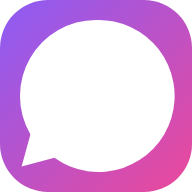
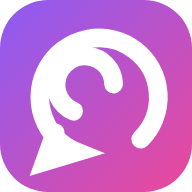
feat(brand): nouvelle marque Chatwrap — bulle en ruban enroulé
Le renommage laissait intact le signal de marque le plus visible : le logo
était littéralement le combiné dans la bulle de WhatsApp. Une fois le nom
neutre, c'était l'exposition la plus directe qui restait.

La nouvelle marque est une bulle de conversation dessinée comme un ruban qui
s'enroule — « chat » + « wrap ». Elle reprend le dégradé violet→rose du
favicon existant, qui lui n'a jamais rien eu de WhatsApp.

- favicon.svg, icons/icon-maskable.svg, et les trois PNG régénérés (192, 512,
  maskable 512).
- Glyphe en-tête : le ruban seul, en dégradé de marque, avec le halo assorti.
  L'icône complète (tuile arrondie) reste réservée au favicon et à la PWA,
  comme c'était déjà le cas.
- Le mot-logo passe du vert au dégradé de marque : le « wrap » vert et le
  symbole violet juraient, et le vert du mot-logo était encore un rappel de
  WhatsApp.

L'accent vert de l'interface (boutons) est laissé tel quel : c'est un choix de
thème global, pas un sujet de marque, et le changer sans demander dépasserait
la question posée.

Claude-Session: https://claude.ai/code/session_01GL6iHmw4kJCqype5e8dEHj

Changed region(s): [[0.0938, 0.0938, 0.9375, 0.9375]]

diff --git a/index.html b/index.html
@@ -34,9 +34,17 @@
         <div class="upload-container">
             <div class="logo-wrapper">
                 <div class="logo-icon" aria-hidden="true">
-                    <svg viewBox="0 0 24 24" fill="currentColor" width="48" height="48">
-                        <path d="M17.472 14.382c-.297-.149-1.758-.867-2.03-.967-.273-.099-.471-.148-.67.15-.197.297-.767.966-.94 1.164-.173.199-.347.223-.644.075-.297-.15-1.255-.463-2.39-1.475-.883-.788-1.48-1.761-1.653-2.059-.173-.297-.018-.458.13-.606.134-.133.298-.347.446-.52.149-.174.198-.298.298-.497.099-.198.05-.371-.025-.52-.075-.149-.669-1.612-.916-2.207-.242-.579-.487-.5-.669-.51-.173-.008-.371-.01-.57-.01-.198 0-.52.074-.792.372-.272.297-1.04 1.016-1.04 2.479 0 1.462 1.065 2.875 1.213 3.074.149.198 2.096 3.2 5.077 4.487.709.306 1.262.489 1.694.625.712.227 1.36.195 1.871.118.571-.085 1.758-.719 2.006-1.413.248-.694.248-1.289.173-1.413-.074-.124-.272-.198-.57-.347z"/>
-                        <path d="M12 0C5.373 0 0 5.373 0 12c0 2.625.846 5.059 2.284 7.034L.789 23.492a.75.75 0 00.917.918l4.462-1.494A11.945 11.945 0 0012 24c6.627 0 12-5.373 12-12S18.627 0 12 0zm0 22c-2.387 0-4.592-.838-6.316-2.234l-.44-.37-3.528 1.18 1.18-3.522-.372-.443A9.957 9.957 0 012 12C2 6.477 6.477 2 12 2s10 4.477 10 10-4.477 10-10 10z"/>
+                    <svg viewBox="0 0 24 24" width="48" height="48" fill="none" stroke-linecap="round">
+                        <defs>
+                            <linearGradient id="mark-gradient" x1="0" y1="0" x2="1" y2="1">
+                                <stop offset="0%" stop-color="#8B5CF6"/>
+                                <stop offset="100%" stop-color="#EC4899"/>
+                            </linearGradient>
+                        </defs>
+                        <g stroke="url(#mark-gradient)" stroke-width="2.1">
+                            <path d="M17.6 17.4A7.4 7.4 0 1 0 9.6 19l-4 1.2 1.3-3.6"/>
+                            <path d="M9.2 13.9a3.6 3.6 0 1 1 5-3.4"/>
+                        </g>
                     </svg>
                 </div>
                 <h1 class="logo-title">Chat<span>wrap</span></h1>

diff --git a/css/style.css b/css/style.css
@@ -114,9 +114,10 @@ html, body {
 }
 
 .logo-icon {
-    color: var(--accent-green);
+    /* The mark carries its own gradient, so the glow follows the brand colours
+       rather than the UI accent. */
     margin-bottom: 0.75rem;
-    filter: drop-shadow(0 0 20px rgba(37, 211, 102, 0.4));
+    filter: drop-shadow(0 0 22px rgba(139, 92, 246, 0.45));
 }
 
 .logo-icon svg {
@@ -133,7 +134,8 @@ html, body {
 }
 
 .logo-title span {
-    background: linear-gradient(135deg, var(--accent-green), #38f9d7);
+    /* Same gradient as the mark, so wordmark and icon read as one system. */
+    background: linear-gradient(135deg, #8B5CF6, #EC4899);
     -webkit-background-clip: text;
     -webkit-text-fill-color: transparent;
     background-clip: text;

diff --git a/sw.js b/sw.js
@@ -16,7 +16,7 @@
  * ML model weights (huggingface.co) are left alone: hundreds of megabytes,
  * already cached internally by transformers.js.
  */
-const CACHE_NAME = 'ww-shell-v5';
+const CACHE_NAME = 'ww-shell-v6';
 
 const SHELL_ASSETS = [
     'index.html',
